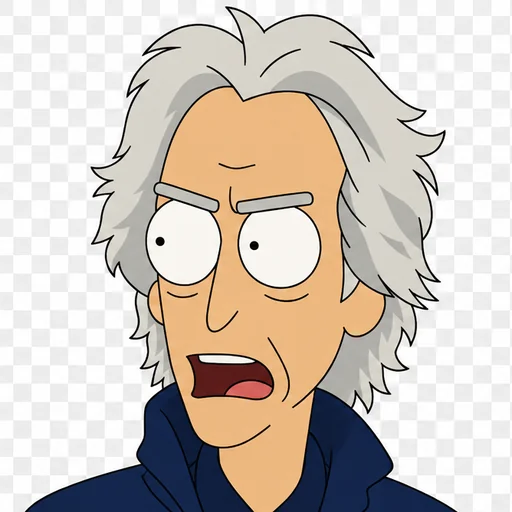
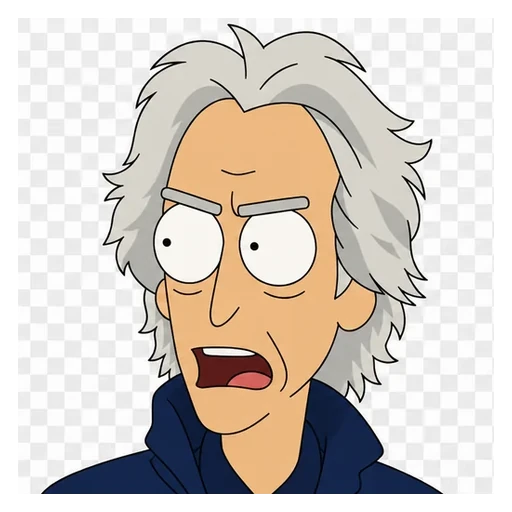
feat: frameless floating assistant mascot with transparent background
Flood-filled the baked checker out of both mouth frames and dropped
the green medallion for a floating bust with soft drop shadow.

Changed region(s): [[0.0312, 0.0, 0.9062, 1.0], [0.4062, 0.3125, 0.5, 0.3438]]

diff --git a/client/src/components/shared/AssistantCoach.jsx b/client/src/components/shared/AssistantCoach.jsx
@@ -7,10 +7,10 @@ import { useTypewriter } from "../../hooks/useTypewriter.js";
 import { Button } from "../shared/Button.jsx";
 
 /**
- * Retrato do adjunto em medalhão (assets `/coaches/jj-fechada.webp` e
- * `/coaches/jj-aberta.webp`, caricatura espelhada a olhar para a direita
- * dele): disco verde da casa, anel a tinta e retrato recortado. A boca
- * alterna em loop (~420ms) enquanto a dica está visível; com
+ * Boneco do adjunto sem moldura (assets `/coaches/jj-fechada.webp` e
+ * `/coaches/jj-aberta.webp` com fundo transparente, caricatura espelhada
+ * a olhar para a direita dele): busto flutuante com sombra suave.
+ * A boca alterna em loop (~420ms) enquanto a dica está visível; com
  * `prefers-reduced-motion` fica parado em boca fechada.
  * `mood` só muda o tratamento do retrato — "sad" dessatura e escurece.
  * @param {string} mood Expressão do adjunto ("worried" | "sad").
@@ -28,19 +28,15 @@ export function AssistantMascot({ mood, compact }) {
   const size = compact
     ? "h-[76px] w-[76px]"
     : "h-[108px] w-[108px] lg:h-[132px] lg:w-[132px]";
-  const imgClass =
-    "h-[86%] w-[86%] rounded-full object-cover object-top ring-1 ring-zinc-900/80";
-  const filter = sad ? { filter: "saturate(0.45) brightness(0.82)" } : undefined;
+  const imgClass = "h-full w-full";
+  const shadow = "drop-shadow(0 6px 10px rgba(0,0,0,0.45))";
+  const filter = sad ? { filter: `saturate(0.45) brightness(0.82) ${shadow}` } : { filter: shadow };
   return (
     <div
       role="img"
       aria-label="Treinador-adjunto"
-      className={`relative ${size} shrink-0 rounded-full flex items-center justify-center bg-[radial-gradient(circle_at_30%_25%,#1f8f4f,#0a3d1e_72%)] ring-2 ring-zinc-900 shadow-[0_4px_14px_rgba(0,0,0,0.5)]`}
+      className={`relative ${size} shrink-0`}
     >
-      <span
-        aria-hidden
-        className="pointer-events-none absolute inset-[3px] rounded-full ring-1 ring-white/25"
-      />
       <img src="/coaches/jj-fechada.webp" alt="" className={imgClass} style={filter} />
       <img
         src="/coaches/jj-aberta.webp"
@@ -131,7 +127,7 @@ export function AssistantCoachView({ tip, onGo, onDismiss }) {
 }
 
 /**
- * Treinador-adjunto: medalhão do treinador + balão de banda desenhada.
+ * Treinador-adjunto: boneco do treinador + balão de banda desenhada.
  * Monta-se no `GameLayout`; o hook decide se há dica (1x/situação/semana).
  * @returns {JSX.Element|null}
  */

diff --git a/NOTES.md b/NOTES.md
@@ -138,3 +138,8 @@
 - Tag `v26.10.6` (APP_VERSION já estava em `v26.10.6`, sem commit de bump); rebuild com `backend Healthy`.
 - Inclui: adjunto com caricatura JJ a falar (boca em loop, medalhão maior em desktop) + máquina de escrever nos balões + entrada/saída faseada de baixo + dica do 11 só após 90s de inatividade.
 - Salas de produção intactas; seed só recria `base.db` se o esquema/fixtures mudarem.
+
+## Adjunto sem círculo, fundo transparente (2026-10-02)
+- Pedido: boneco sem o círculo verde, com fundo transparente.
+- Implementação: fundo xadrez removido por inundação a partir das bordas (limiar >=225, contornos pretos fechados protegem olhos/dentes/brilhos; penugem 0.6px) e busto a 93% em tela transparente — `jj-fechada.webp`/`jj-aberta.webp` regenerados com alfa (~30KB); `AssistantMascot` sem disco/argolas, busto a encher a caixa com `drop-shadow` (acumula com o filtro `sad`); tutorial herda por partilhar o componente.
+- Checks: `eslint` limpo · `check:types` OK · mesma caixa, só estilo → sem `test:mobile`.
